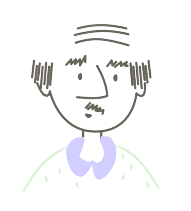
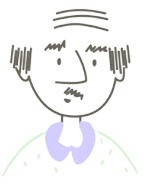
create readme

diff --git a/client/src/components/formAddTodo/FormAddTodo.tsx b/client/src/components/formAddTodo/FormAddTodo.tsx
@@ -20,19 +20,23 @@ interface ITags {
   }
   modalEdit?: boolean
 }
+
 interface InputState {
   id?: number | null
-  title?: string | undefined
+  userID?: number | null
+  title?: string
   description?: string
   selectTag?: any
 }
+
 export default function FormAddTodo({
   tags, activeModal, setModalActive, selectTodoEdit, modalEdit,
 }: ITags) {
   const dispatch = useDispatch();
   const userID = useTypedSelector((state) => state.user.userData?.id);
   const inputsInitialState = {
-    id: userID,
+    id: selectTodoEdit?.id,
+    userID,
     title: selectTodoEdit?.title,
     description: selectTodoEdit?.description,
     selectTag: [],
@@ -42,7 +46,8 @@ export default function FormAddTodo({
 
   useEffect(() => {
     setInputsValues((prev) => ({
-      id: userID,
+      id: selectTodoEdit?.id,
+      userID,
       title: selectTodoEdit?.title,
       description: selectTodoEdit?.description,
       selectTag: tagsContext?.selectTags,
@@ -55,6 +60,13 @@ export default function FormAddTodo({
 
   const closeModal: React.ReactEventHandler = (e: any) => {
     setModalActive(false);
+    setInputsValues((prev) => ({
+      id: null,
+      userID,
+      title: '',
+      description: '',
+      selectTag: [],
+    }));
     tagsContext?.setSelectedTags([]);
   };
 
@@ -69,12 +81,27 @@ export default function FormAddTodo({
   const addNewTodoFetch = async (e: any) => {
     e.preventDefault();
     dispatch(addNewTodo(inputsValues));
+    setInputsValues((prev) => ({
+      id: null,
+      userID,
+      title: '',
+      description: '',
+      selectTag: [],
+    }));
+    tagsContext?.setSelectedTags([]);
     setModalActive(false);
   };
 
   const editTodo = async (e: any) => {
     e.preventDefault();
     dispatch(editTodoThunk(inputsValues));
+    setInputsValues((prev) => ({
+      id: null,
+      userID,
+      title: '',
+      description: '',
+      selectTag: [],
+    }));
     tagsContext?.setSelectedTags([]);
     setModalActive(false);
   };
@@ -101,6 +128,7 @@ export default function FormAddTodo({
         Название
         {modalEdit ? (
           <input
+            value={inputsValues.title || ''}
             onChange={handleValueInput}
             className={styles.inputTitle}
             type="text"
@@ -109,9 +137,9 @@ export default function FormAddTodo({
           />
         ) : (
           <input
-            onChange={(e) => handleValueInput(e)}
-            className={styles.inputTitle}
             value={inputsValues.title}
+            onChange={handleValueInput}
+            className={styles.inputTitle}
             placeholder="добавь название..."
             type="text"
             name="title"
@@ -123,6 +151,7 @@ export default function FormAddTodo({
         Описание
         {modalEdit ? (
           <TextareaAutosize
+            value={inputsValues.description}
             onChange={handleValueTextArea}
             className={styles.inputDescription}
             placeholder="добавь описание..."

diff --git a/client/src/store/actions/addNewTodoAction.ts b/client/src/store/actions/addNewTodoAction.ts
@@ -3,11 +3,11 @@ import { Dispatch } from 'redux';
 import { TodoAction, TodoActionTypes } from '../types/typesTodo';
 
 export const addNewTodo = (
-  todoData: {id?: number | null | undefined},
+  todoData: {userID?: number | null | undefined},
 ) => async (dispatch: Dispatch<TodoAction>) => {
   try {
     dispatch({ type: TodoActionTypes.ADD_TODO_LOADING });
-    const { data } = await axios.post(`http://localhost:5000/api/todos/${todoData.id}`, todoData);
+    const { data } = await axios.post(`http://localhost:5000/api/todos/${todoData.userID}`, todoData);
     dispatch({ type: TodoActionTypes.ADD_TODO_SUCCESS, payload: data });
   } catch (error) {
     dispatch({ type: TodoActionTypes.ADD_TODO_ERROR, payload: 'Ошибка сервера' });

diff --git a/client/src/app.module.scss b/client/src/app.module.scss
@@ -78,26 +78,31 @@ select {
     scroll-behavior: auto !important;
   }
 }
+body {
+  display: flex;
+  padding: 20px;
+  justify-content: center;
+}
 
 .appContainer {
   font-family: Roboto;
   border: 3px solid #69665C;
-  width: 1810px;
-  height: 95vh;
-  position: absolute;
-  top: 2.2%;
-  left: 2.6%;
-  margin: 0 auto;
+  width: 100%;
+  min-height: 100%;
+  display: flex;
+  justify-content: center;
   border-radius: 40px;
 }
 
 .appContentContainer {
-  width: 1650px; 
-  margin: 0 auto;
-  margin-top: 50px;
-  margin-bottom: 50px; 
+  width: 1760px; 
+  display: flex;
+  justify-content: space-between;
+  margin: 30px 50px;
 }
 
 .divContentContainer {
   display: flex;
+  width: 1750px;
+  justify-content: space-between;
 }

diff --git a/client/src/components/mainLayout/MainLayout.tsx b/client/src/components/mainLayout/MainLayout.tsx
@@ -32,11 +32,8 @@ export const MainLayout: React.FC = () => {
     if (userID !== null) {
       dispatch(getAllTodo(userID));
     }
-  }, [userID]);
-
-  useEffect(() => {
     getTags().then((data) => setTags(data));
-  }, []);
+  }, [userID]);
 
   return (
     <div>
@@ -64,6 +61,7 @@ export const MainLayout: React.FC = () => {
             <ImgBanner />
             <Logout />
           </div>
+
           <TodoList
             active={modalActive}
             setActive={setModalActive}

diff --git a/server/routers/todosRouter/todosEditRouter.js b/server/routers/todosRouter/todosEditRouter.js
@@ -5,7 +5,6 @@ router.put('/', async (req, res) => {
   try {
     const { id } = req.params;
     const { title, description, selectTag } = req.body;
-
     const updateTodo = await Todo.update(
       { title, description },
       {
@@ -30,7 +29,6 @@ router.put('/', async (req, res) => {
         res.json(updateTodo[1]);
       });
   } catch (e) {
-    console.log(e);
     res.json({ message: 'Ошибка сервера' });
   }
 });

diff --git a/client/src/components/auth/img/Img.tsx b/client/src/components/auth/img/Img.tsx
@@ -1,0 +1,13 @@
+import React from 'react';
+import person1 from '../../../assets/person.png';
+import person2 from '../../../assets/person2.png';
+import person3 from '../../../assets/person3.png';
+import styles from './imgAuth.module.scss';
+
+export const Img: React.FC = () => (
+  <div className={styles.imgAuth}>
+    <img src={person2} alt="" />
+    <img src={person3} alt="" />
+    <img src={person1} alt="" />
+  </div>
+);

diff --git a/client/src/components/auth/Auth.tsx b/client/src/components/auth/Auth.tsx
@@ -1,5 +1,6 @@
 import React, { useState } from 'react';
 import styles from './auth.module.scss';
+import { Img } from './img/Img';
 import { LoginForm } from './tabsAuth/LoginForm';
 import { RegisterForm } from './tabsAuth/RegisterForm';
 
@@ -40,6 +41,7 @@ const Auth: React.FC = () => {
         </ul>
         {activeTab === 'login' ? <LoginForm /> : <RegisterForm />}
       </div>
+      <Img />
     </div>
   );
 };

diff --git a/client/src/store/actions/getAllTodo.ts b/client/src/store/actions/getAllTodo.ts
@@ -8,7 +8,6 @@ export const getAllTodo = (userId: number) => async (dispatch: Dispatch<TodoActi
     const { data } = await axios.get(`http://localhost:5000/api/todos/${userId}`);
     dispatch({ type: TodoActionTypes.GET_ALL_TODO_SUCCESS, payload: data });
   } catch (error) {
-    console.log(error);
     dispatch({ type: TodoActionTypes.ADD_TODO_ERROR, payload: 'Ошибка сервера' });
   }
 };

diff --git a/client/src/components/logout/Logout.tsx b/client/src/components/logout/Logout.tsx
@@ -1,6 +1,5 @@
-import React, { useEffect } from 'react';
+import React from 'react';
 import { useDispatch } from 'react-redux';
-import { useNavigate } from 'react-router';
 import logoutPNG from '../../assets/logout.png';
 import styles from './logout.module.scss';
 import { logoutUser } from '../../store/actions/userAction';

diff --git a/client/src/components/todoList/todoItem/todoItem.module.scss b/client/src/components/todoList/todoItem/todoItem.module.scss
@@ -1,4 +1,5 @@
 .todoItemContainer {
+  break-inside: avoid;
   width: 675px;
   height: fit-content;
   background: #FFF9DE;
@@ -49,6 +50,7 @@
   margin: 15px 0px 15px;
   line-height: 21px;
   color: #69665C;
+  word-break: break-all;
 }
 
 .todoDescriptionDone {

diff --git a/client/src/components/header/btnAddNewTodo/BtnAddNewTodo.tsx b/client/src/components/header/btnAddNewTodo/BtnAddNewTodo.tsx
@@ -1,4 +1,3 @@
-/* eslint-disable jsx-a11y/no-noninteractive-element-interactions */
 import imgBtnAdd from '../../../assets/add.png';
 import styles from './btn.module.scss';
 import { SetActive } from '../../../models/interfaces/interfaces';

diff --git a/client/public/index.html b/client/public/index.html
@@ -12,6 +12,6 @@
   </head>
   <body>
     <noscript>You need to enable JavaScript to run this app.</noscript>
-    <div id="root"></div>
+    <div style="width: 100%; min-width: max-content;" id="root"></div>
   </body>
 </html>
